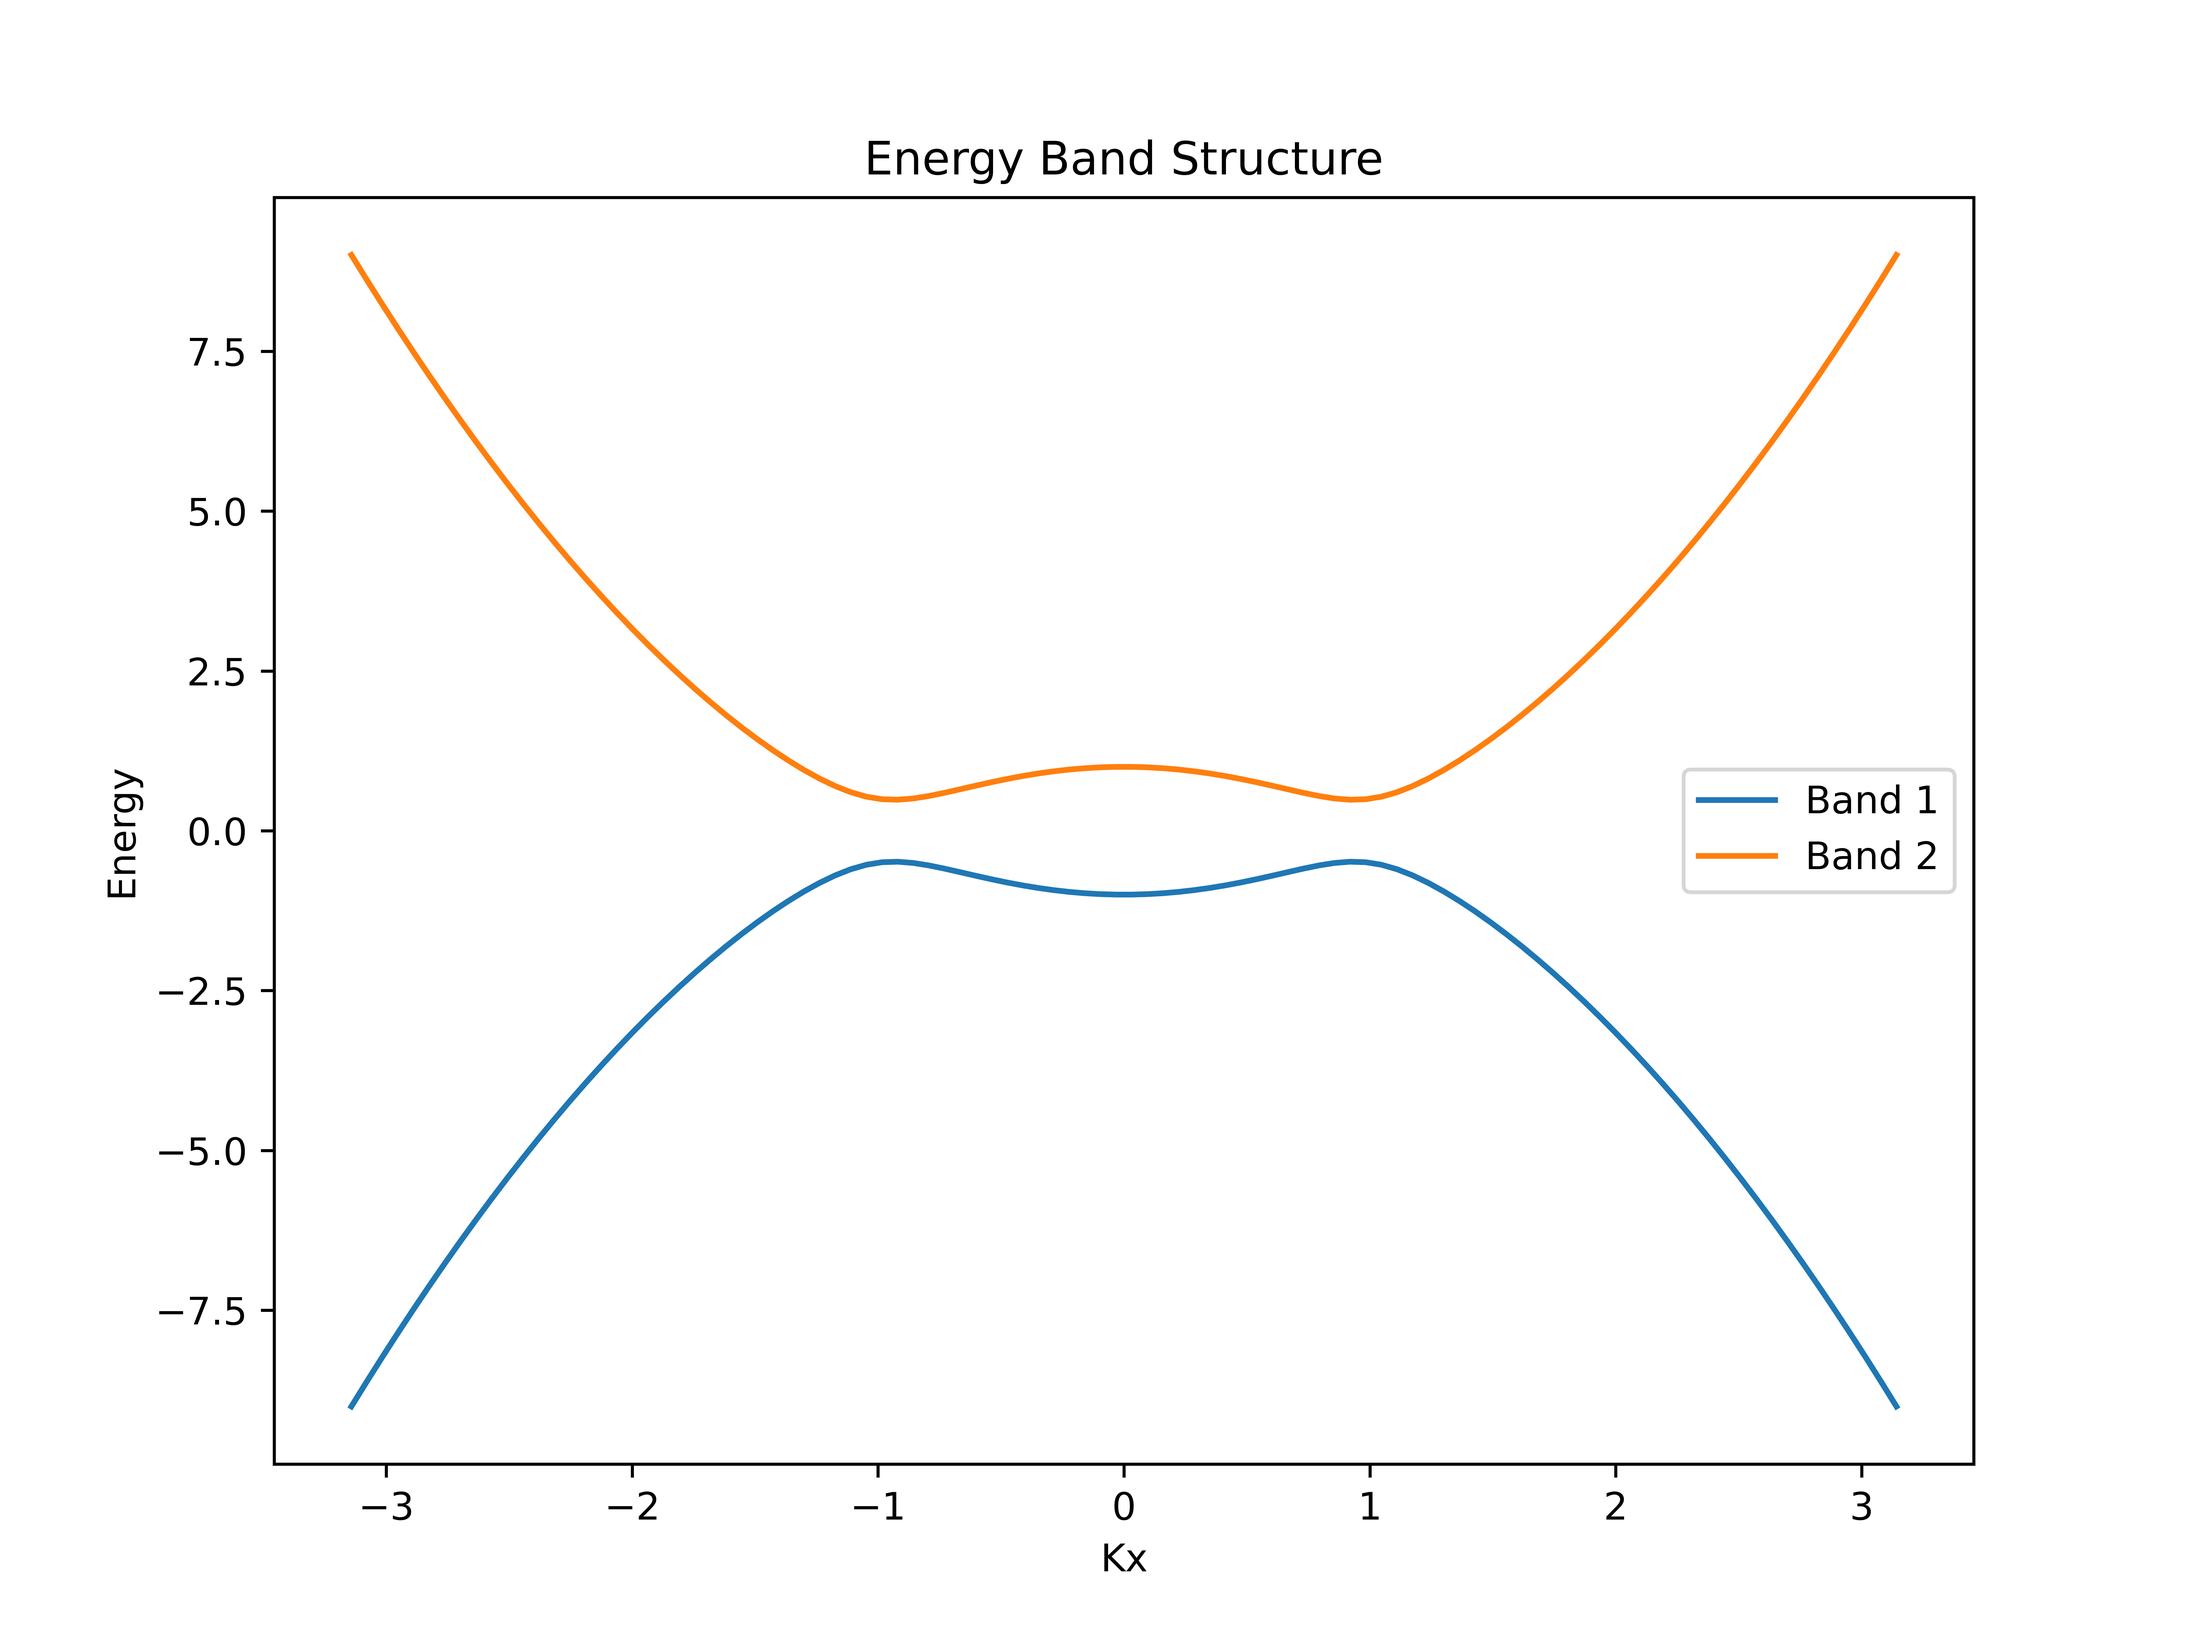
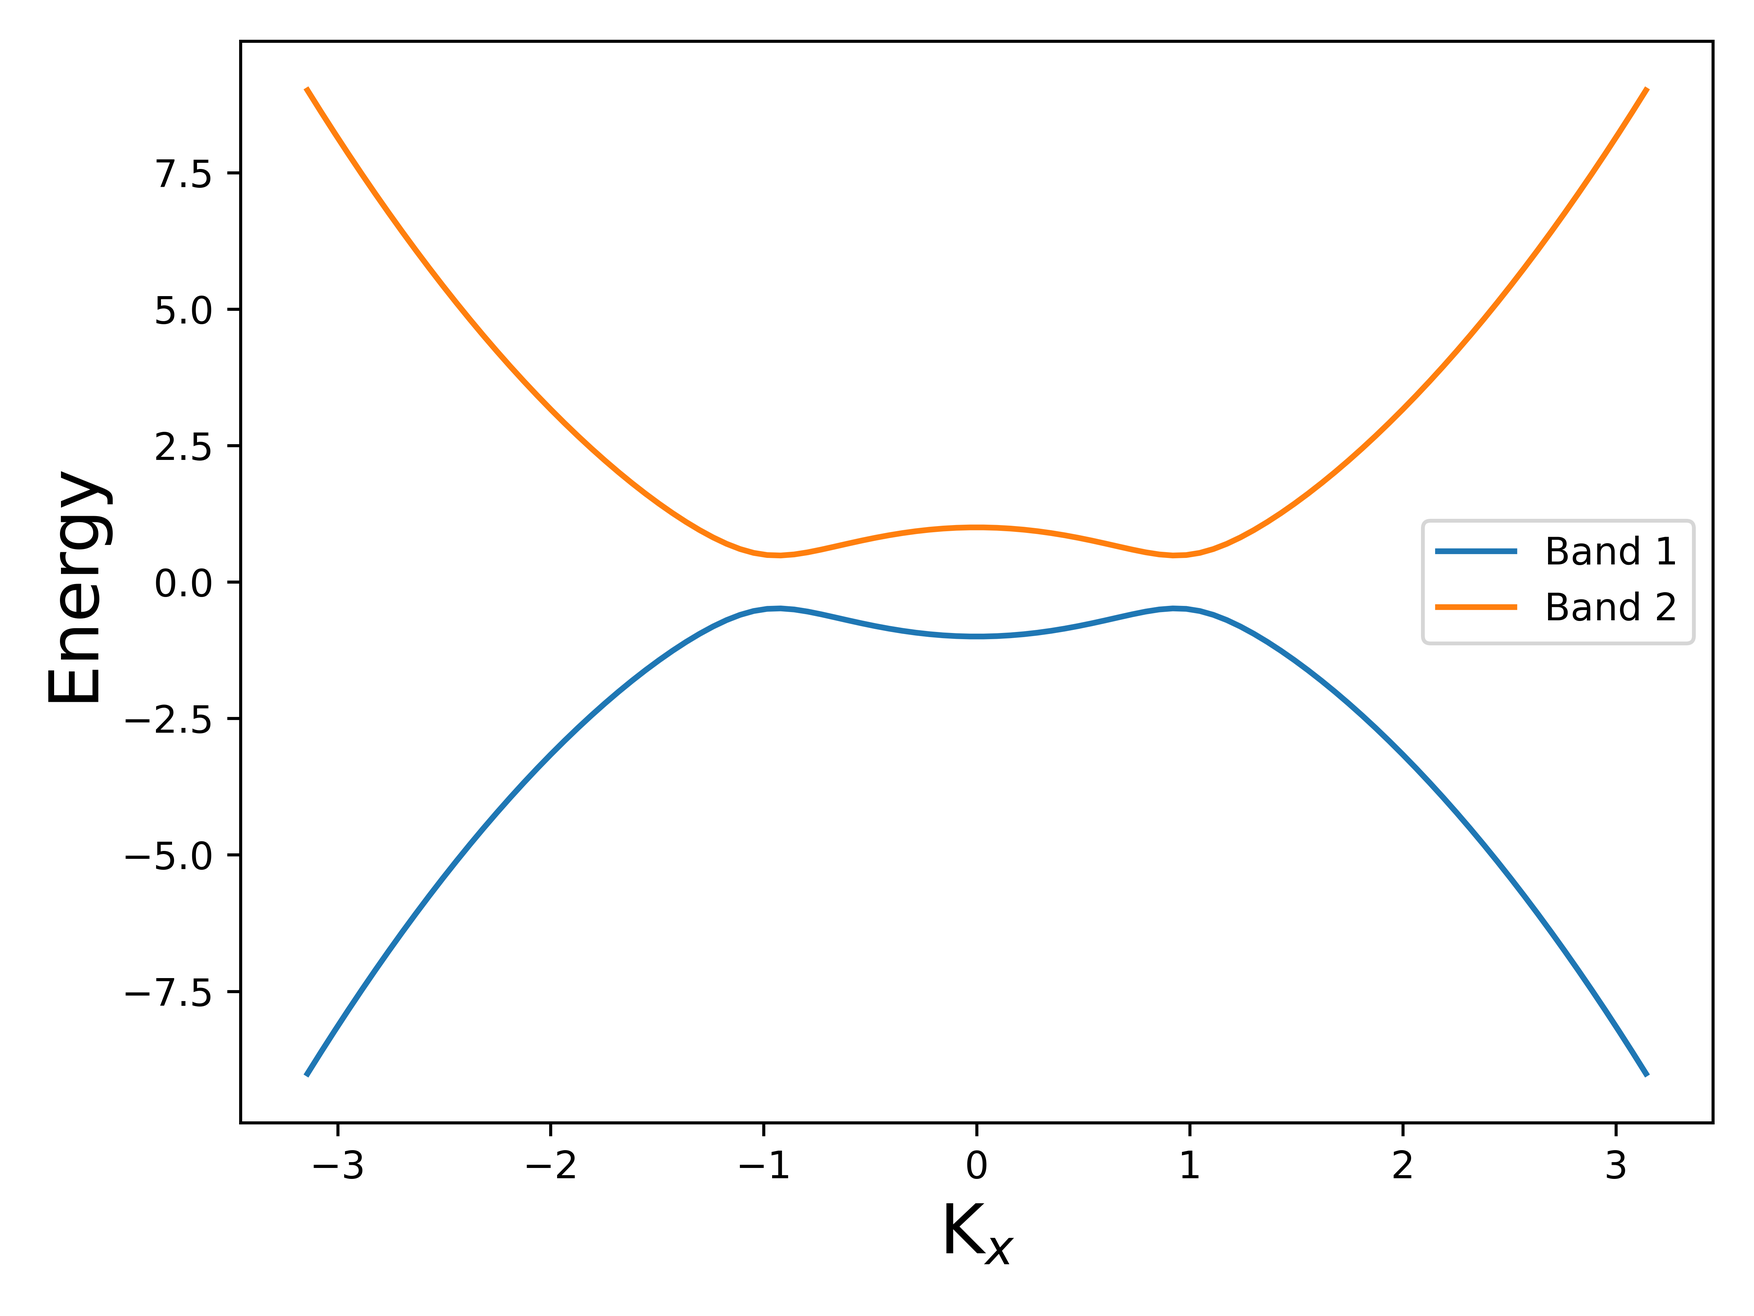
graph modification

diff --git a/second.py b/second.py
@@ -37,12 +37,14 @@ for i, kx in enumerate(kx_range):
         phases[i, j] = berry_phase(kx, ky, t, M)
 
 # Plotar a fase de Berry em função de Kx e Ky
-plt.figure(figsize=(8, 6))
+plt.figure()
 plt.imshow(phases.T, origin='lower', extent=[kx_range[0], kx_range[-1], ky_range[0], ky_range[-1]], cmap='jet')
 plt.colorbar(label='Berry Phase')
-plt.xlabel('Kx')
-plt.ylabel('Ky')
-plt.title('Berry Phase in Momentum Space')
+
+plt.xlabel('K$_x$', fontsize=18)
+plt.ylabel('K$_y$', fontsize=18)
+#plt.title('Berry Phase in Momentum Space')
+plt.tight_layout()
 plt.savefig('berry.png', dpi=800)
 
 # Plotar a estrutura de bandas
@@ -55,13 +57,14 @@ for i, kx in enumerate(kx_range):
     energies[i, :] = eigenvalues
 
 # Plotar a estrutura de bandas
-plt.figure(figsize=(8, 6))
+plt.figure()
 for band in range(num_bands):
     plt.plot(kx_range, energies[:, band], label='Band {}'.format(band + 1))
-plt.xlabel('Kx')
-plt.ylabel('Energy')
-plt.title('Energy Band Structure')
+plt.xlabel('K$_x$', fontsize=18)
+plt.ylabel('Energy', fontsize=18)
+#plt.title('Energy Band Structure')
 plt.legend()
+plt.tight_layout()
 plt.savefig('bands.png', dpi=800)
 
 # Plotar a fase de Berry para kx fixo
@@ -73,9 +76,10 @@ for i, ky in enumerate(ky_range):
     phases_fixed_ky[i] = berry_phase(kx, fixed_ky, t, M)
 
 # Plotar a fase de Berry para kx fixo
-plt.figure(figsize=(8, 6))
+plt.figure()
 plt.plot(ky_range, phases_fixed_ky, color='r')
-plt.xlabel('Ky')
-plt.ylabel('Berry Phase')
-plt.title('Berry Phase for Fixed Ky')
+plt.xlabel('K$_y$', fontsize=18)
+plt.ylabel('Berry Phase', fontsize=18)
+#plt.title('Berry Phase for Fixed Ky')
+plt.tight_layout()
 plt.savefig('just_k.png', dpi=800)
